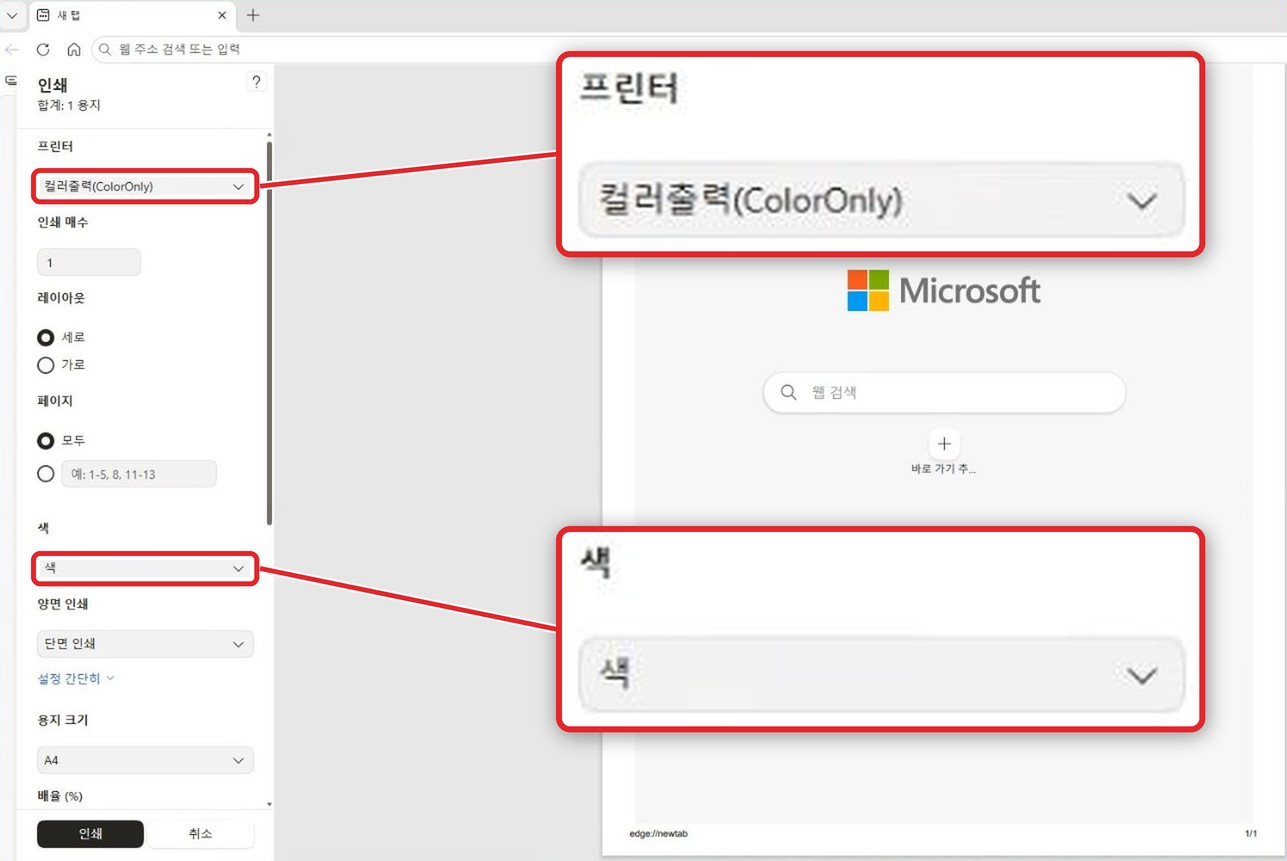
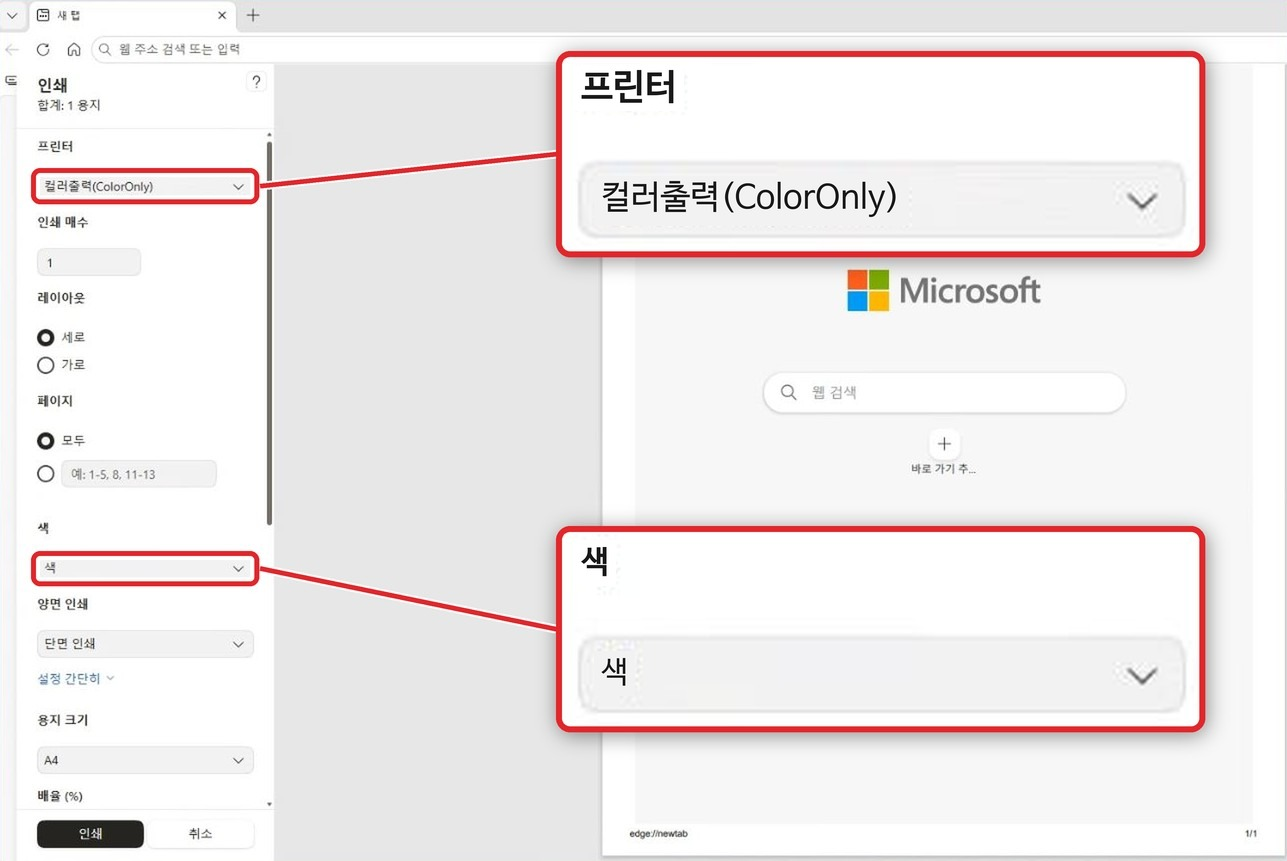
fix: 엣지 확대 말풍선 그림의 깨진 글자(프린터·색·단면 인쇄·용지 크기·A4·한 면에 인쇄할 페이지 수·1)를 선명하게 다시 씀

diff --git a/guide-print.html b/guide-print.html
@@ -582,7 +582,7 @@ footer{background:#111827;color:rgba(255,255,255,.55);padding:60px 6%}
       </div>
       <div class="step">
         <div class="step-no">2</div>
-        <div class="step-figs"><div class="est-two"><figure class="est-fig"><img class="step-photo" src="images/print/edge-printer-black.jpg" alt="엣지 인쇄 화면에서 프린터 목록의 흑백출력(BlackOnly)을 선택하는 모습" loading="lazy"><figcaption class="est-cap">흑백출력 프린터 선택</figcaption></figure><figure class="est-fig"><img class="step-photo" src="images/print/edge-printer-color.jpg" alt="엣지 인쇄 화면에서 프린터 목록의 컬러출력(ColorOnly)을 선택하는 모습" loading="lazy"><figcaption class="est-cap">컬러출력 프린터 선택</figcaption></figure></div><figure class="est-fig"><a href="images/print/edge-lens-color.jpg?v=2" target="_blank" rel="noopener"><img class="step-photo" src="images/print/edge-lens-color.jpg?v=2" alt="엣지 인쇄 화면 전체 사진. 프린터의 컬러출력과 색 칸을 돋보기처럼 크게 확대해서 보여 주는 모습" loading="lazy"></a><figcaption class="est-cap">🔍 빨간 상자 부분을 크게 확대했어요 — <b>컬러출력 프린터</b>를 선택하고, <b>'색'</b> 칸에서 <b>[색]</b>을 선택한 뒤 <b>오른쪽 미리보기가 컬러로 나오는지</b> 꼭 확인하세요 <span style="color:var(--text3);font-weight:600">(사진을 누르면 크게 열려요)</span></figcaption></figure></div>
+        <div class="step-figs"><div class="est-two"><figure class="est-fig"><img class="step-photo" src="images/print/edge-printer-black.jpg" alt="엣지 인쇄 화면에서 프린터 목록의 흑백출력(BlackOnly)을 선택하는 모습" loading="lazy"><figcaption class="est-cap">흑백출력 프린터 선택</figcaption></figure><figure class="est-fig"><img class="step-photo" src="images/print/edge-printer-color.jpg" alt="엣지 인쇄 화면에서 프린터 목록의 컬러출력(ColorOnly)을 선택하는 모습" loading="lazy"><figcaption class="est-cap">컬러출력 프린터 선택</figcaption></figure></div><figure class="est-fig"><a href="images/print/edge-lens-color.jpg?v=3" target="_blank" rel="noopener"><img class="step-photo" src="images/print/edge-lens-color.jpg?v=3" alt="엣지 인쇄 화면 전체 사진. 프린터의 컬러출력과 색 칸을 돋보기처럼 크게 확대해서 보여 주는 모습" loading="lazy"></a><figcaption class="est-cap">🔍 빨간 상자 부분을 크게 확대했어요 — <b>컬러출력 프린터</b>를 선택하고, <b>'색'</b> 칸에서 <b>[색]</b>을 선택한 뒤 <b>오른쪽 미리보기가 컬러로 나오는지</b> 꼭 확인하세요 <span style="color:var(--text3);font-weight:600">(사진을 누르면 크게 열려요)</span></figcaption></figure></div>
         <div class="est-txt">
           <div class="step-h">프린터 선택</div>
           <p class="step-p">프린터에서 <b>흑백출력</b> 또는 <b>컬러출력</b> 프린터를 선택하세요.</p><div class="step-note warn">⚠ <b>컬러출력 프린터</b>를 선택했다면 <b>'색'</b> 칸에서 <b>[색]</b>을 선택하고, 오른쪽 <b>미리보기가 컬러로 나오는지 반드시 확인</b>하세요.</div>
@@ -590,7 +590,7 @@ footer{background:#111827;color:rgba(255,255,255,.55);padding:60px 6%}
       </div>
       <div class="step">
         <div class="step-no">3</div>
-        <div class="step-figs"><figure class="est-fig"><a href="images/print/edge-lens-options.jpg?v=2" target="_blank" rel="noopener"><img class="step-photo" src="images/print/edge-lens-options.jpg?v=2" alt="엣지 인쇄 화면 전체 사진. 양면 인쇄, 용지 크기, 한 면에 인쇄할 페이지 수를 돋보기처럼 크게 확대해서 보여 주는 모습" loading="lazy"></a><figcaption class="est-cap">🔍 빨간 상자 부분을 크게 확대했어요 — 빨간 ✔ 표시한 곳을 확인하세요: <b>양면/단면 · 용지 크기 · 한 면에 인쇄할 페이지 수</b> <span style="color:var(--text3);font-weight:600">(사진을 누르면 크게 열려요)</span></figcaption></figure></div>
+        <div class="step-figs"><figure class="est-fig"><a href="images/print/edge-lens-options.jpg?v=3" target="_blank" rel="noopener"><img class="step-photo" src="images/print/edge-lens-options.jpg?v=3" alt="엣지 인쇄 화면 전체 사진. 양면 인쇄, 용지 크기, 한 면에 인쇄할 페이지 수를 돋보기처럼 크게 확대해서 보여 주는 모습" loading="lazy"></a><figcaption class="est-cap">🔍 빨간 상자 부분을 크게 확대했어요 — 빨간 ✔ 표시한 곳을 확인하세요: <b>양면/단면 · 용지 크기 · 한 면에 인쇄할 페이지 수</b> <span style="color:var(--text3);font-weight:600">(사진을 누르면 크게 열려요)</span></figcaption></figure></div>
         <div class="est-txt">
           <div class="step-h">인쇄 옵션 선택 · 확인</div>
           <p class="step-p"><b>[기타 설정]</b>을 눌러 <b>용지 사이즈, 양면/단면, 한 면에 인쇄할 페이지 수</b> 등 인쇄 옵션을 선택하거나 확인하세요.</p>
